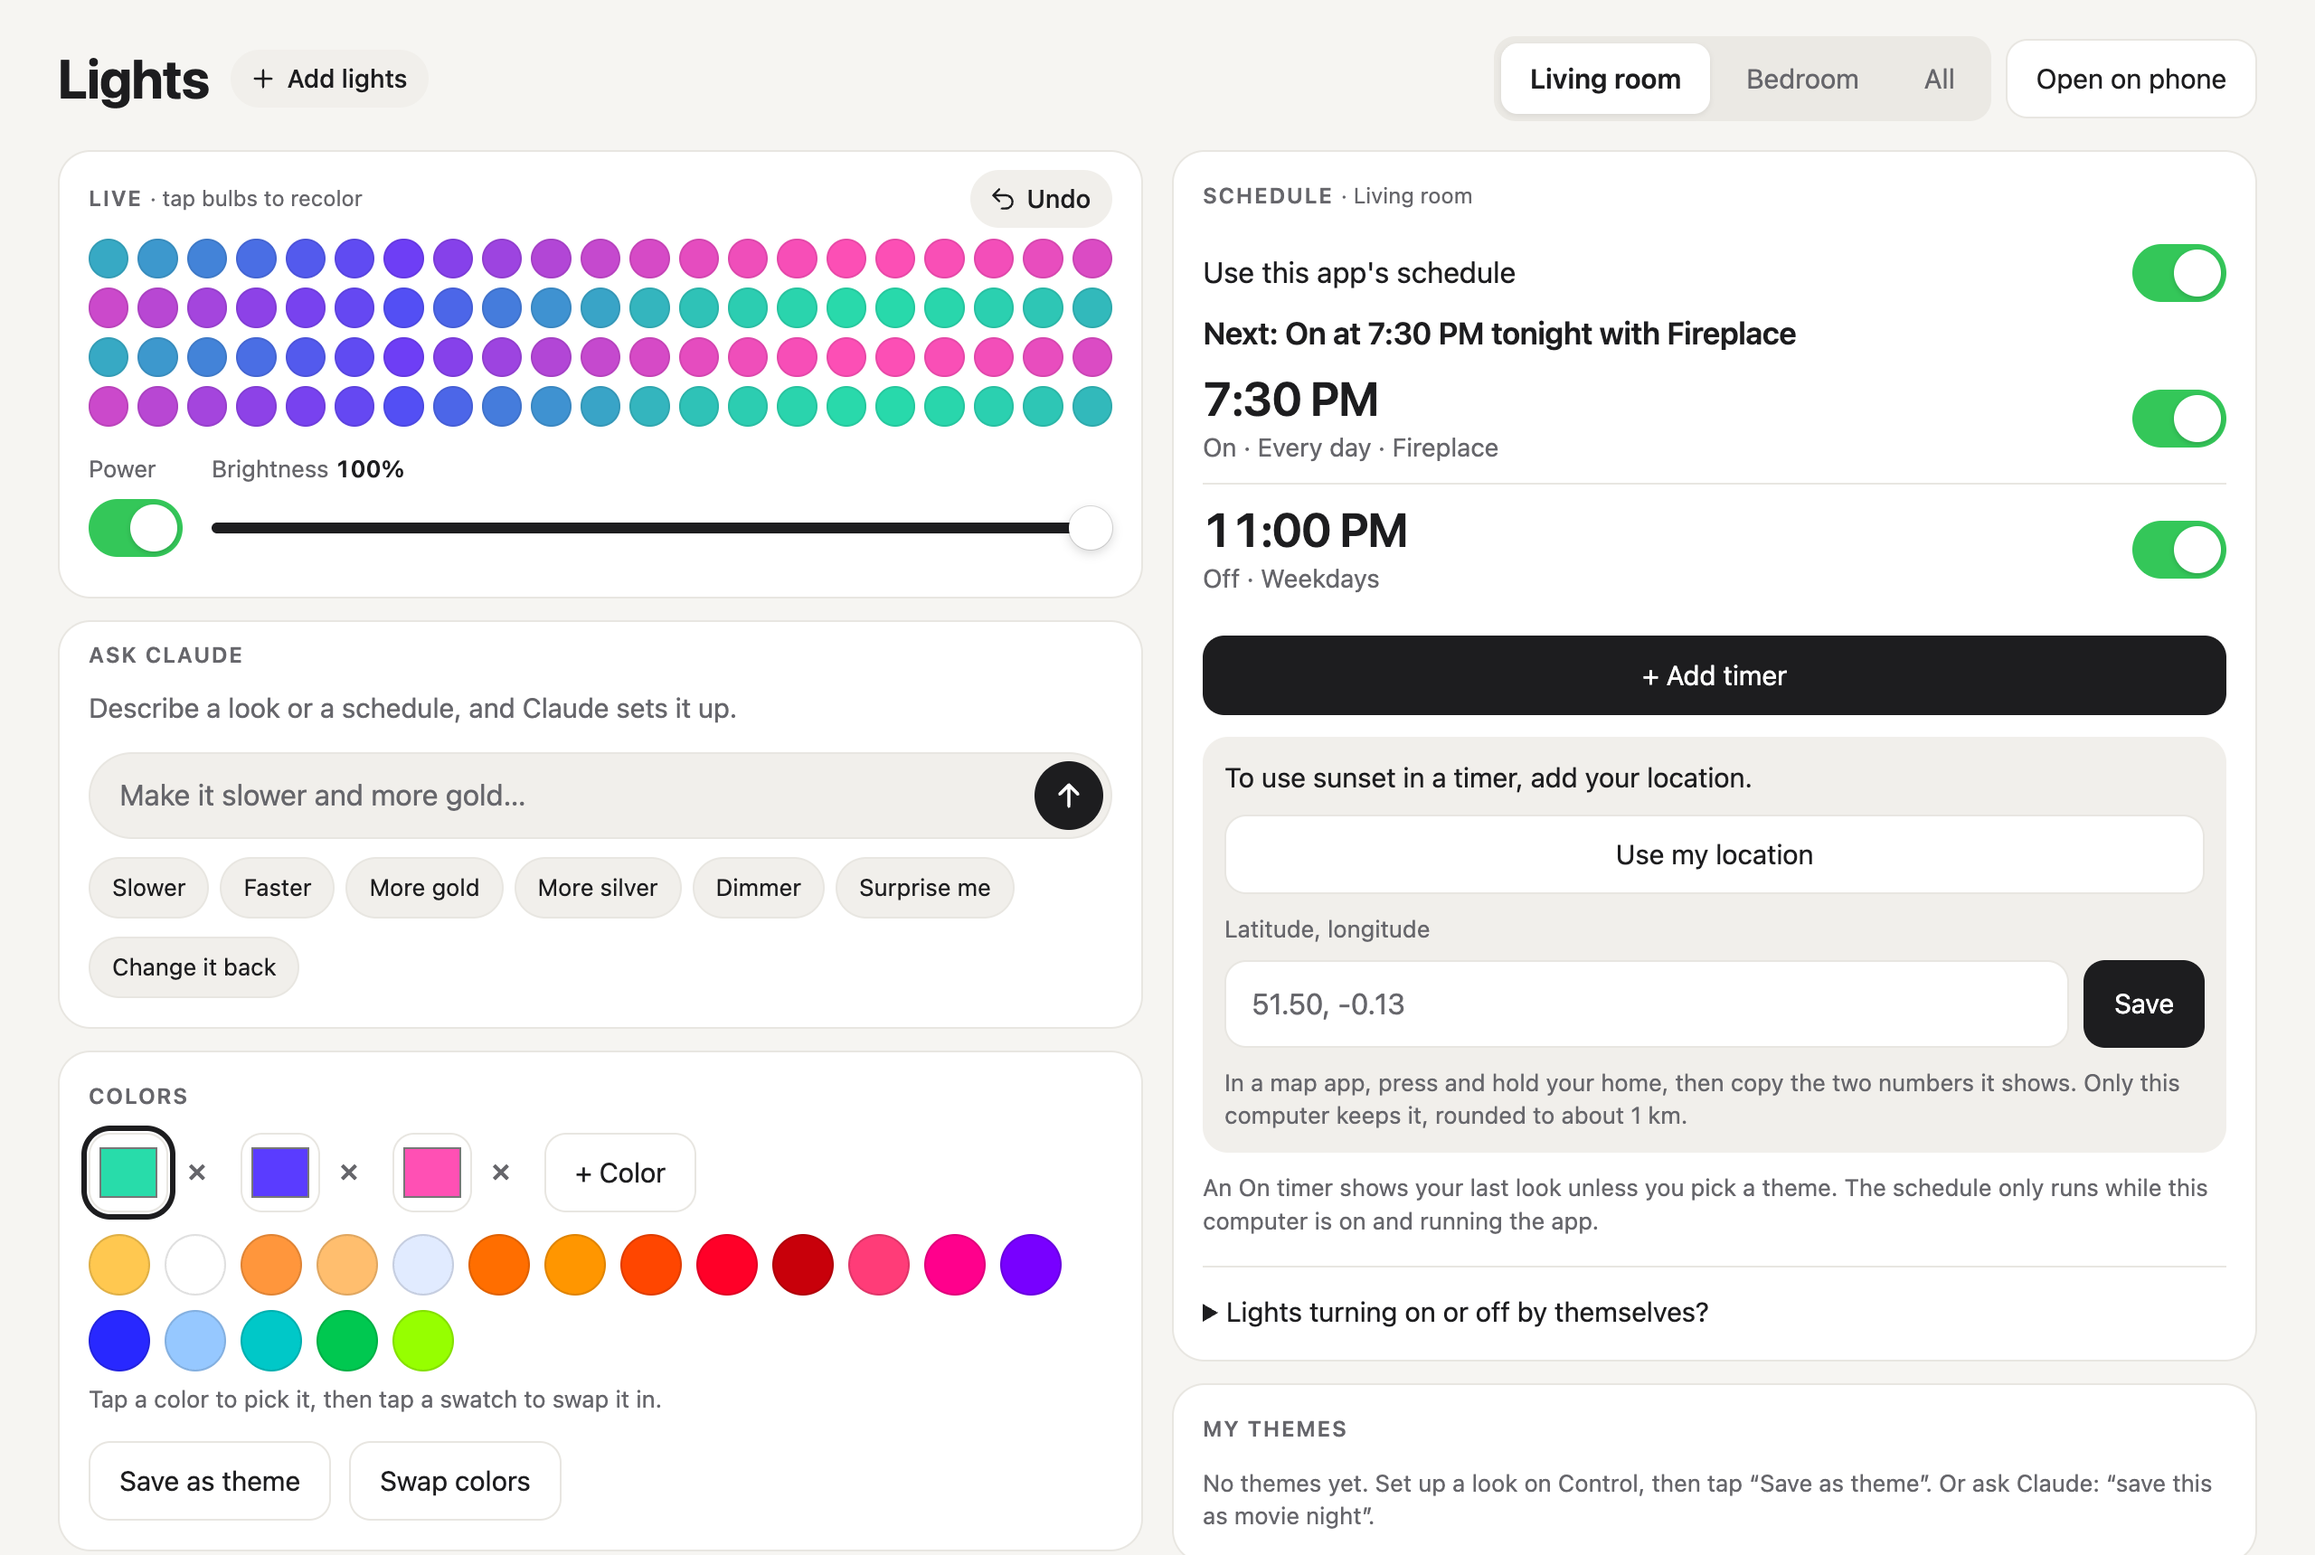
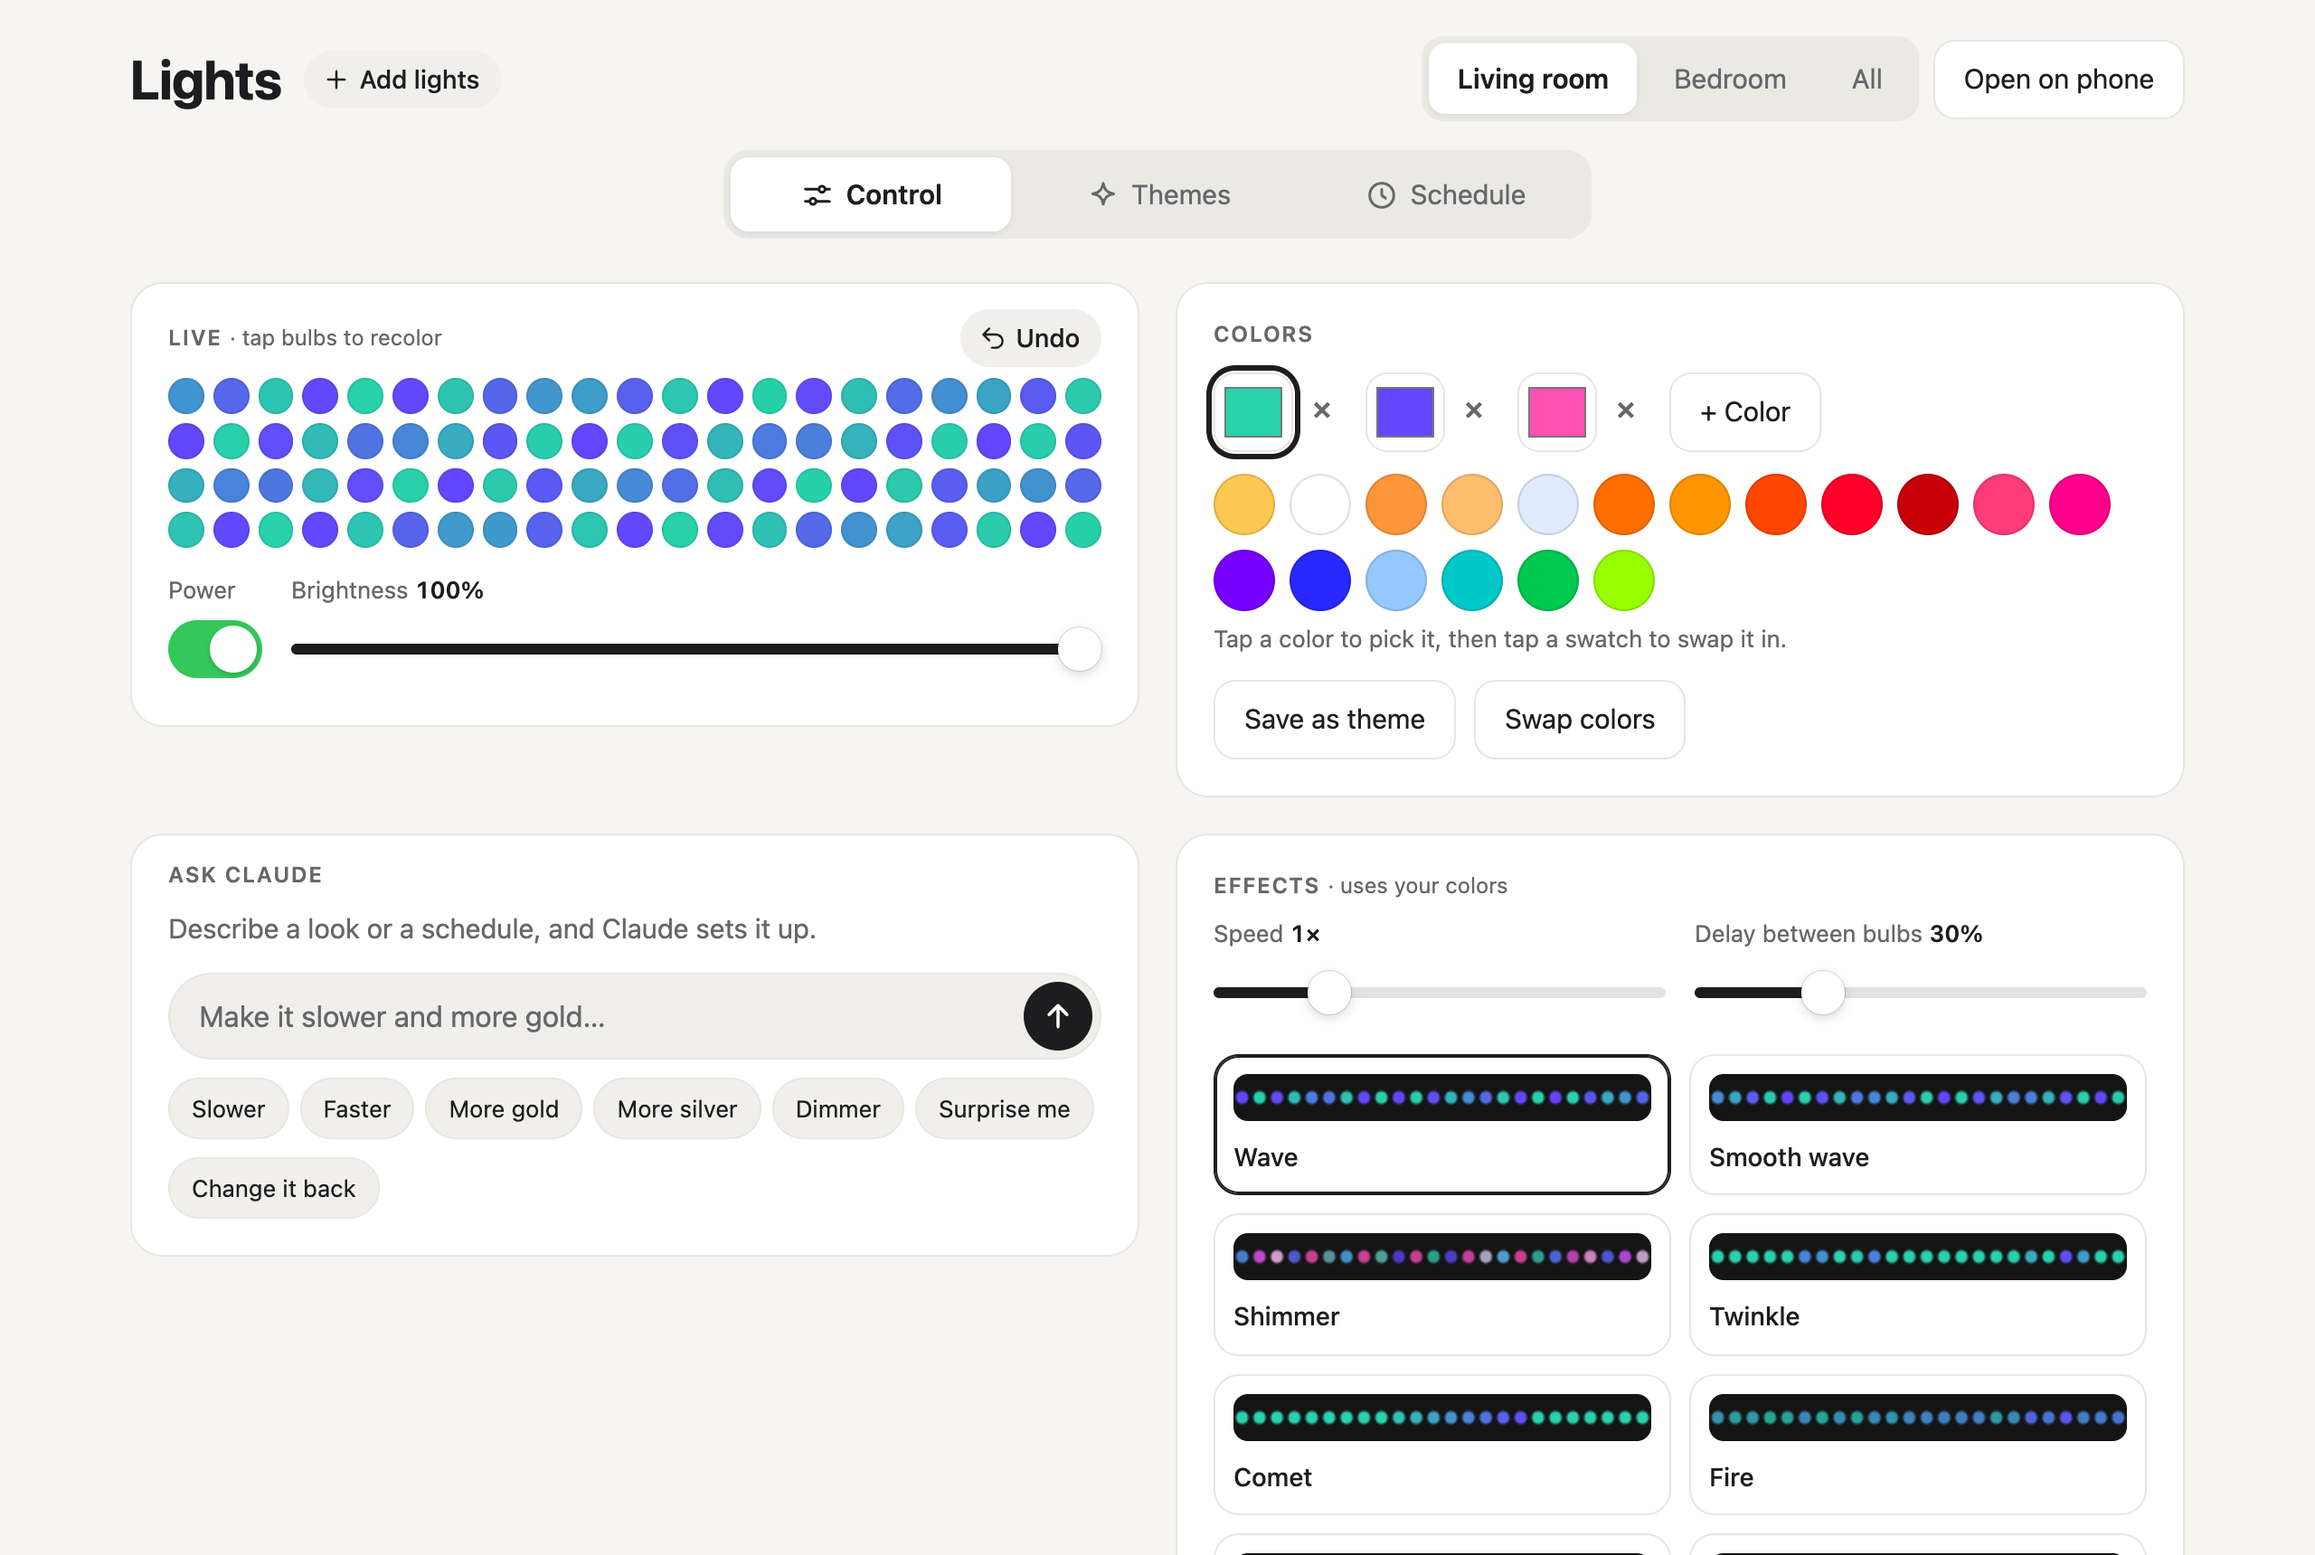
Tabs on every width again, roomier wide layouts per page, and Ask Claude hints on each page

diff --git a/index.html b/index.html
@@ -248,15 +248,21 @@
     #toast { transform:translate(-50%, 0); }
   }
   #addLights { margin-right:auto; }
-  .pane { display:contents; }
-  /* wide windows: every page at once in two columns, so no page tabs */
+  .askhint { display:block; width:100%; border:0; background:none; padding:0; font:inherit; font-size:13px; color:var(--mute); text-align:left; cursor:pointer; margin-top:16px; }
+  @media (hover:hover) { .askhint:hover { color:var(--ink); } }
+  /* wide windows: still one page at a time, each page laid out for the width */
   @media (min-width:1000px) {
-    main { max-width:1400px; padding-inline:32px; }
-    #app { display:grid; grid-template-columns:repeat(2, minmax(0, 1fr)); gap:16px; align-items:start; }
-    #app .pages { display:none; }
-    .pane { display:flex; flex-direction:column; min-width:0; }
-    #app [data-page][hidden] { display:block !important; }
-    [data-page=schedule] { order:-1; }
+    main { max-width:1200px; padding-inline:32px; }
+    #app .card { padding:20px; margin-bottom:20px; }
+    .pages { width:100%; max-width:480px; margin:0 auto 24px; }
+    .strip { grid-template-columns:repeat(21, minmax(0, 32px)); }
+    #app:has(> [data-page=control]:not([hidden])) { display:grid; grid-template-columns:repeat(2, minmax(0, 1fr)); column-gap:20px; align-items:start;
+      grid-template-rows:auto auto auto 1fr; grid-template-areas:"nav nav" "empty empty" "live colors" "ask fx"; }
+    #app:has(> [data-page=control]:not([hidden])):has(#askCard[hidden]) { grid-template-areas:"nav nav" "empty empty" "live fx" "colors fx"; }
+    body.basic #app:has(> [data-page=control]:not([hidden])) { grid-template-areas:"nav nav" "empty empty" "live colors" "ask colors"; }
+    [data-page=control] { display:contents; }
+    #pages { grid-area:nav; } #noLights { grid-area:empty; } #liveCard { grid-area:live; } #askCard { grid-area:ask; } #colorCard { grid-area:colors; } #fxCard { grid-area:fx; }
+    #app:has(> [data-page=schedule]:not([hidden])) > .card, [data-page=schedule] { max-width:720px; margin-inline:auto; }
     #account, #setup:not(.welcome) { max-width:640px; margin-inline:auto; }
   }
   @media (max-width:560px) {
@@ -395,12 +401,11 @@
     <button data-p="schedule"><svg class="i" viewBox="0 0 24 24" aria-hidden="true"><circle cx="12" cy="12" r="8"/><path d="M12 8v4l2.5 2"/></svg>Schedule</button>
   </nav>
 
-  <div class="pane">
   <div class="card" id="noLights" hidden>
     <div class="summary">No lights yet<small>Find the Govee lights on your Wi-Fi, then give each one a name.</small></div>
     <button class="btn dark" style="margin-top:14px" onclick="addLights()">Find lights</button>
   </div>
-  <div class="card">
+  <div class="card" id="liveCard">
     <div class="head">
       <h2>Live <span class="sub" data-advanced>· tap bulbs to recolor</span></h2>
       <button class="linkbtn" id="undo" onclick="undo()" title="Go back to the last look" disabled><svg class="i" viewBox="0 0 24 24" aria-hidden="true"><path d="M9 14 4 9l5-5"/><path d="M4 9h10.5a5.5 5.5 0 0 1 0 11H11"/></svg>Undo</button>
@@ -437,7 +442,7 @@
     <div class="hint" id="chatHint" hidden>Claude forgets this chat after 5 quiet minutes, so each ask stays cheap.</div>
   </div>
 
-  <div class="card">
+  <div class="card" id="colorCard">
     <h2>Colors</h2>
     <div class="colors" id="colors"></div>
     <div class="swatches" id="swatches" aria-label="Quick colors"></div>
@@ -448,23 +453,23 @@
     </div>
   </div>
 
-  <div class="card" data-advanced>
+  <div class="card" id="fxCard" data-advanced>
     <h2>Effects <span class="sub">· uses your colors</span></h2>
     <div class="row fx" style="gap:16px;margin:-4px 0 12px">
       <div class="ctl grow"><label class="small" for="speed">Speed <b id="speedVal" aria-hidden="true"></b></label><input type="range" id="speed" min="0.1" max="4" step="0.05" value="1"></div>
       <div class="ctl grow"><label class="small" for="amount"><span id="amountLabel">Amount</span> <b id="amountVal" aria-hidden="true"></b></label><input type="range" id="amount" min="0.05" max="1" step="0.01" value="0.5"></div>
     </div>
     <div class="grid" id="effects"></div>
+    <button class="askhint" onclick="askFocus()" hidden>Don't see the look you want? Ask Claude. It can make new effects and animations.</button>
   </div>
   </section>
-  </div>
 
-  <div class="pane">
   <section data-page="themes" hidden>
   <div class="card">
     <h2>My themes</h2>
     <div class="grid" id="mythemes"></div>
     <div class="hint" id="themesHint">No themes yet. Set up a look on Control, then tap “Save as theme”.<span id="themesAsk" hidden> Or ask Claude: “save this as movie night”.</span></div>
+    <button class="askhint" onclick="askFocus()" hidden>Ask Claude to make a theme from scratch.</button>
   </div>
   <div class="card" id="groups"></div>
   <div class="card" id="goveeGroup" hidden>
@@ -498,6 +503,7 @@
     </div>
     </fieldset>
     <div class="hint">An On timer shows your last look unless you pick a theme. The schedule only runs while this computer is on and running the app.</div>
+    <button class="askhint" onclick="askFocus()" hidden>Ask Claude to set up any schedule, like “on at sunset, off at 11 on weekdays”.</button>
     <details><summary>Lights turning on or off by themselves?</summary>
       <p class="hint">Timers and automations made in the Govee Home app keep running alongside this schedule. To find one, open the light in Govee Home and check Timer, then Automation. This app never changes them.</p>
       <p class="hint">While this computer is awake, the app notes when something else turns a light on or off. If it happens at about the same time on two different days, a warning shows under the schedule.</p>
@@ -505,7 +511,6 @@
     </details>
   </div>
   </section>
-  </div>
   </div>
   <dialog id="timerSheet" aria-labelledby="timerTitle"><div class="card">
     <h2 id="timerTitle">Add timer</h2>
@@ -939,7 +944,7 @@ SWATCHES.forEach(([name, c]) => {
   $('swatches').appendChild(b);
 });
 CHIPS.forEach(t => { const c = document.createElement('button'); c.className = 'chip'; c.textContent = t; c.onclick = () => ask(t); $('chips').appendChild(c); });
-function pickTab(k) { light = k; if (document.querySelector('[data-page=themes]').offsetParent) loadGoveeScenes(); fxKey = ''; loadSchedule(); try { localStorage.light = k; } catch (_) {} document.querySelectorAll('#tabs button').forEach(b => b.classList.toggle('on', b.dataset.k === k)); shownColors = ''; syncControls(); draw(); }
+function pickTab(k) { light = k; if (!document.querySelector('[data-page=themes]').hidden) loadGoveeScenes(); fxKey = ''; loadSchedule(); try { localStorage.light = k; } catch (_) {} document.querySelectorAll('#tabs button').forEach(b => b.classList.toggle('on', b.dataset.k === k)); shownColors = ''; syncControls(); draw(); }
 function showPage(p) {
   document.querySelectorAll('[data-page]').forEach(x => x.hidden = x.dataset.page !== p);
   document.querySelectorAll('#pages button').forEach(b => b.classList.toggle('on', b.dataset.p === p));
@@ -947,6 +952,7 @@ function showPage(p) {
   if (p === 'schedule') loadSchedule();
   if (p === 'themes') loadGoveeScenes();
 }
+function askFocus() { showPage('control'); $('askText').focus(); }
 $('pages').onclick = e => { const b = e.target.closest('button'); if (b) showPage(b.dataset.p); };
 try { if (['control','themes','schedule'].includes(localStorage.page)) showPage(localStorage.page); } catch (_) {}
 // light picker: one tab per saved light, plus "All" when there are 2 or more
@@ -1199,6 +1205,7 @@ async function refresh() {
   $('autoUpdate').checked = state.update?.enabled !== false;
   $('appVersion').textContent = (state.update?.version || state.version).slice(0, 12);
   $('askCard').hidden = $('themesAsk').hidden = !(state.claude && state.ask);
+  document.querySelectorAll('.askhint').forEach(b => b.hidden = $('askCard').hidden);
   $('askUse').hidden = !state.claude; $('askUse').textContent = state.ask ? 'Turn off Ask Claude' : 'Turn on Ask Claude'; $('askGet').hidden = state.claude;
   $('noLights').hidden = ids().length > 0;
   if (ids().length) welcomeDone = true;

diff --git a/README.md b/README.md
@@ -4,7 +4,7 @@
 
 Moving, bulb-by-bulb effects and smarter timers for Govee light strips, from your computer or any phone on your Wi-Fi. No cloud, no account.
 
-<img src="docs/desktop.png" width="800" alt="Govee Lights on a computer: live strip of bulbs, Ask Claude, colors, and the schedule with two timers">
+<img src="docs/desktop.png" width="800" alt="Govee Lights on a computer: Control, Themes and Schedule tabs over the live strip of bulbs, Ask Claude, colors and effects">
 
 Wave, shimmer, twinkle, fire, aurora and more in your colors; tap bulbs to paint them; save themes; timers at a time or at sunset; an optional Ask Claude chat ("make it a slow police light"). It also works on a phone ([screenshot](docs/phone.png)): click **Open on phone** and scan the code.
 
